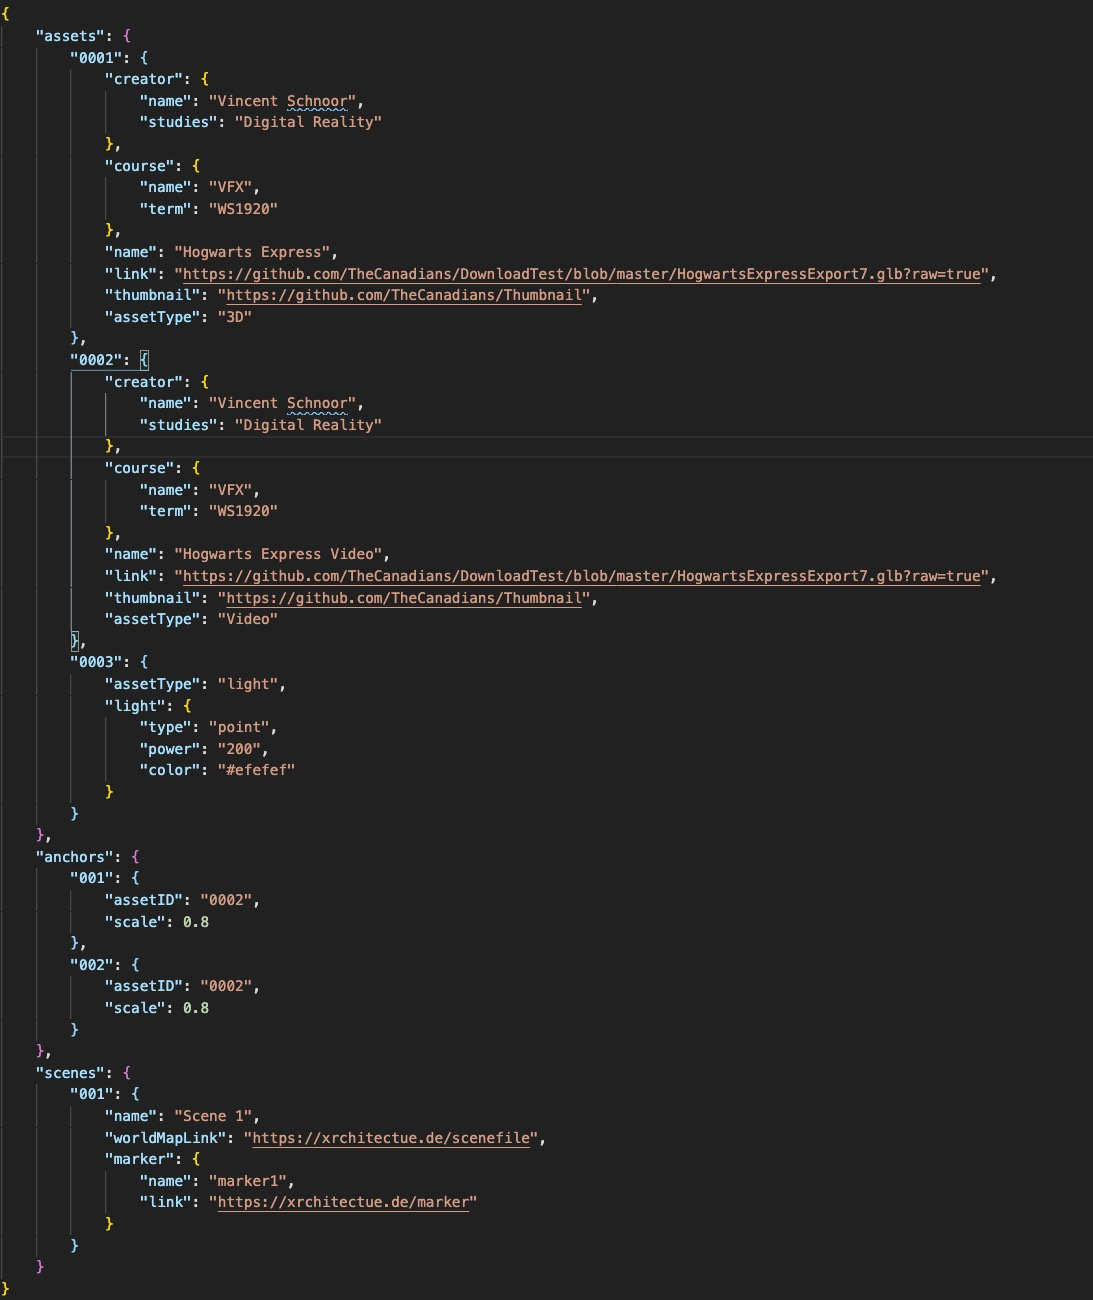
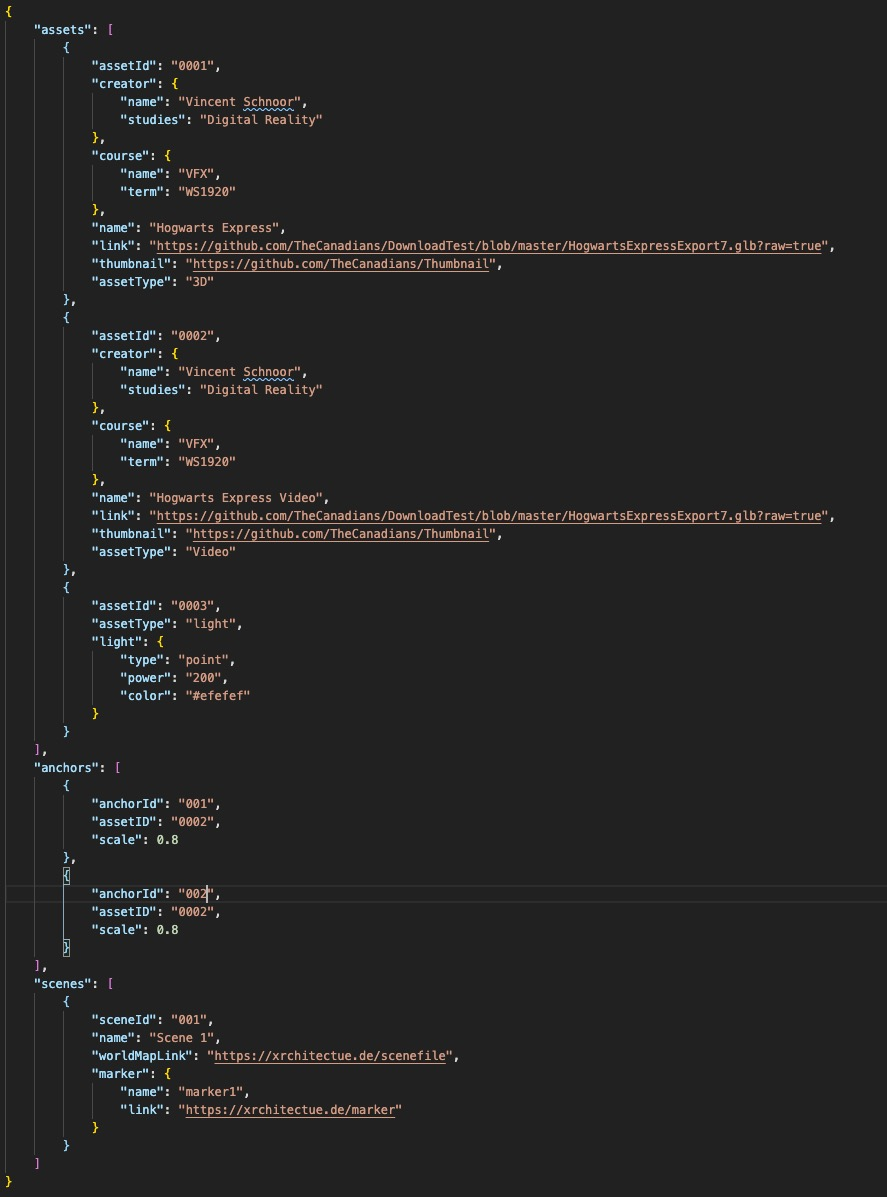
API still WIP

diff --git a/cms.ar.xarchitecture.de/cms.ar.xarchitecture.de/Models/Content.cs b/cms.ar.xarchitecture.de/cms.ar.xarchitecture.de/Models/Content.cs
@@ -3,14 +3,140 @@ using System;
 using System.Collections.Generic;
 using System.Linq;
 using System.Threading.Tasks;
+using Newtonsoft.Json;
+using Microsoft.EntityFrameworkCore;
+using Microsoft.CodeAnalysis.CSharp.Syntax;
 
 namespace cms.ar.xarchitecture.de.Models
 {
     public class Content
     {
-        public IEnumerable<SceneAsset> assets;
-        public IEnumerable<Anchor> anchors;
-        public IEnumerable<Scene> scenes;
+        public IEnumerable<assets> assets;
+        public IEnumerable<anchors> anchors;
+        public IEnumerable<scenes> scenes;
+
+        public Content()
+        {
+
+
+        }
+
+        public async Task<String> getJson(cmsDatabaseContext _context)
+        {
+            string result = "";
+            IEnumerable<SceneAsset> _assets = await _context.SceneAsset.ToListAsync();
+            IEnumerable<Anchor> _anchors = await _context.Anchor.ToListAsync();
+            IEnumerable<Scene> _scenes = await _context.Scene.ToListAsync();
+
+            foreach (SceneAsset element in _assets)
+            {
+                if (element.AssetType == 1) //3d
+                {
+                    assets temp = new assets();
+
+                    temp.assetId = element.AssetId;
+                    temp.creator = new creator(element.Creator, _context);
+                    temp.course = new course(element.CourseName, _context);
+                    temp.name = element.Name;
+                    temp.link = element.Link;
+                    temp.thumbnail = element.Thumbnail;
+                    temp.assetType = "3d";
+
+                    assets.Append<assets>(temp);
+                }
+
+                else if(element.AssetType == 5) //light
+                {
+                    light temp = new light();
+
+                    temp.type = element.Type;
+                    temp.power = element.Power;
+                    temp.color = element.Color;
+
+                    assets.Append<light>(temp);
+                }
+
+            }
+
+            foreach (Anchor element in _anchors)
+            {
+                anchors temp = new anchors();
+                anchors.Append<anchors>(temp);
+
+            }
+
+            foreach (Scene element in _scenes)
+            {
+                scenes temp = new scenes();
+                scenes.Append<scenes>(temp);
+
+            }
+
+            result = JsonConvert.SerializeObject(this, Formatting.Indented);
+            return result;
+        }
     }
 
+    public class assets
+    {
+        public int assetId { get; set; }
+        public creator creator { get; set; }
+        public course course { get; set; }
+        public string name { get; set; }
+        public string link { get; set; }
+        public string thumbnail { get; set; }
+        public string assetType { get; set; }
+    }
+
+    public class anchors
+    {
+        public int anchorId { get; set; }
+        public float scale { get; set; }
+    }
+
+    public class scenes
+    {
+        public int sceneId { get; set; }
+        public string name { get; set; }
+        public string worldMapLink { get; set; }
+        public marker marker { get; set; }
+    }
+
+    public class creator
+    {
+        public creator(int id, cmsDatabaseContext _context)
+        {
+            Creator record =  _context.Creator.Find(id);
+            this.name = record.Name;
+            this.studies = record.Programme;
+        }
+
+        public string name { get; set; }
+        public string studies { get; set; }
+    }
+
+    public class course
+    {
+        public course(int id, cmsDatabaseContext _context)
+        {
+            Course record = _context.Course.Find(id);
+            this.name = record.CourseName;
+            this.term = record.Term;
+        }
+        public string name { get; set; }
+        public string term { get; set; }
+    }
+
+    public class light
+    {
+        public string type { get; set; }
+        public string power { get; set; }
+        public string color { get; set; }
+    }
+
+    public class marker
+    {
+        public string name { get; set; }
+        public string link { get; set; }
+    }
 }

diff --git a/cms.ar.xarchitecture.de/cms.ar.xarchitecture.de/Controllers/ContentController.cs b/cms.ar.xarchitecture.de/cms.ar.xarchitecture.de/Controllers/ContentController.cs
@@ -6,7 +6,7 @@ using cms.ar.xarchitecture.de.cmsDatabase;
 using cms.ar.xarchitecture.de.Models;
 using Microsoft.AspNetCore.Mvc;
 using Microsoft.EntityFrameworkCore;
-using Newtonsoft.Json;
+
 
 // For more information on enabling Web API for empty projects, visit https://go.microsoft.com/fwlink/?LinkID=397860
 
@@ -28,13 +28,8 @@ namespace cms.ar.xarchitecture.de.Controllers
         public async Task<String> Get()
         {
             Content content = new Content();
-
-            content.assets = await _context.SceneAsset.ToListAsync();
-            content.anchors = await _context.Anchor.ToListAsync();
-            content.scenes = await _context.Scene.ToListAsync();
-
-            return JsonConvert.SerializeObject(content, Formatting.Indented);
-            //return new string[] { "value1", "value2" };
+          
+            return await content.getJson(_context);
         }
 
         // GET api/<APIController>/5
